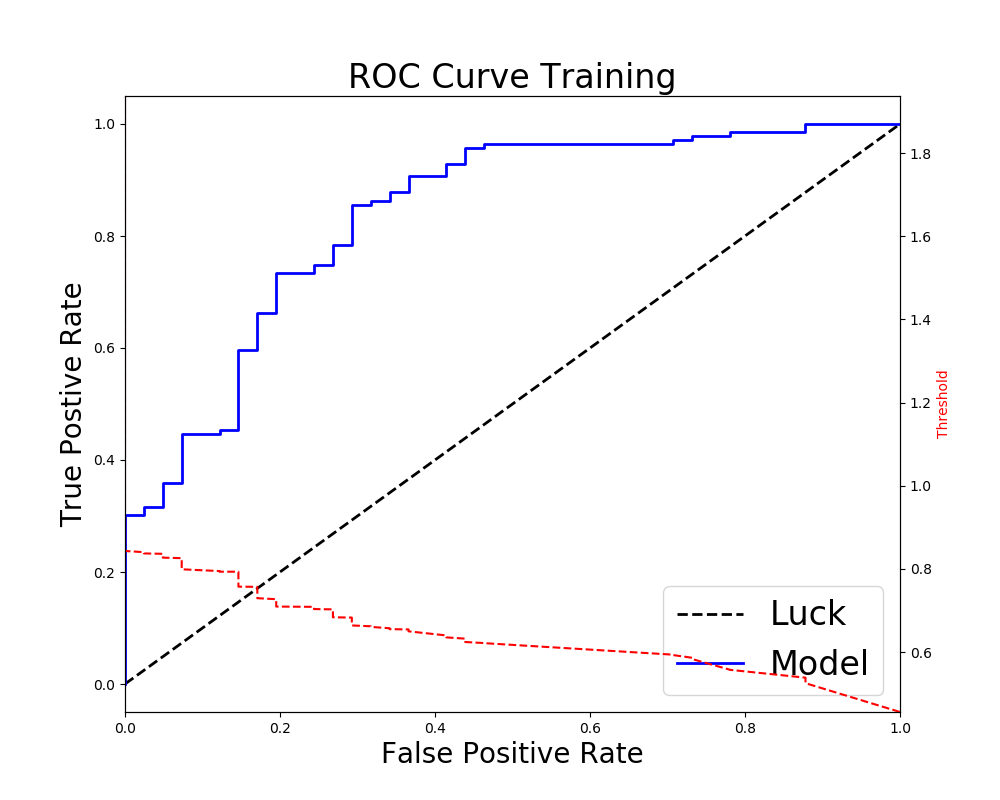
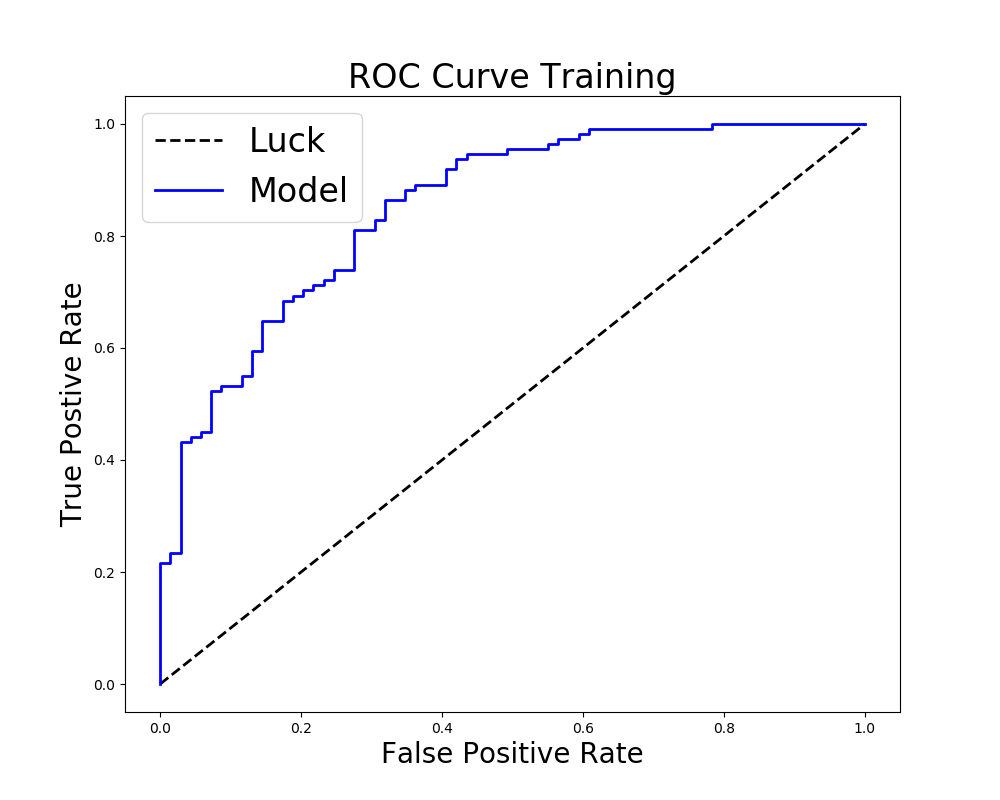
code

diff --git a/cap_thresholds.py b/cap_thresholds.py
@@ -1,5 +1,6 @@
 import pandas as pd
 import numpy as np
+import csv
 from sklearn import metrics
 from sklearn.model_selection import cross_val_predict
 from sklearn import svm, datasets
@@ -68,14 +69,16 @@ def plot_model_profits(model_profits, save_path='images/profit.png'):
     plt.savefig(save_path)
 
 def make_clean_Options_df(df):
-    df = df[['Options','ma2_mean']]
+    #df = df[['Options','ma2_mean']]
+    df = df[['Options','mean_close','ma_2']]
+
     #df = df[['Options','mean_volume']]
     return (df)
 
-def get_clean_data():
-    df = pd.read_csv('data/clean_small2.csv')
-    df = df[['Options','ma1_mean']]
-    return(df)
+# def get_clean_data():
+#     df = pd.read_csv('data/clean_small2.csv')
+#     df = df[['Options','ma1_mean']]
+#     return(df)
 
 def standard_confusion_matrix(y_true, y_pred):
     """Make confusion matrix with format:
@@ -184,6 +187,8 @@ def processcsv(filepath, cost_benefit):
     max_model, max_thresh, max_profit = find_best_threshold(model_profits)
     max_labeled_positives = max_model.predict_proba(X_test) >= max_thresh
     plotROC(y_test, max_model.predict_proba(X_test)[:,1])
+    # Add a line for just a 1
+
     proportion_positives = max_labeled_positives.mean()
     reporting_string = ('Best model:\t\t{}\n'
                         'Best threshold:\t\t{:.2f}\n'
@@ -215,12 +220,13 @@ def find_best_threshold(model_profits):
             max_threshold = thresholds[max_index]
             max_profit = profits[max_index]
     return max_model, max_threshold, max_profit
-def plotROC(y_true, y_prob_H):
-
+def plotROC(y_true, y_prob_H, filelocation = 'images/plotROC.png',title = 'ROC curve'):
+    print("in plotRoc",filelocation,title)
     # print(y_true)
     # print(y_prob_H)
     # print('Length', len(y_prob_H))
     fpr, tpr, thresholds = metrics.roc_curve(y_true, y_prob_H, pos_label=1)
+    print("****************",title, thresholds.max())
     fig = plt.figure(figsize=(10,8))
     ax = fig.add_subplot(111)
     ax.plot([0, 1], [0, 1], linestyle='--', lw=2, color='k',
@@ -228,17 +234,37 @@ def plotROC(y_true, y_prob_H):
     ax.plot(fpr, tpr, color='b', lw=2, label='Model')
     ax.set_xlabel("False Positive Rate", fontsize=20)
     ax.set_ylabel("True Postive Rate", fontsize=20)
-    ax.set_title("ROC curve", fontsize=24)
+    ax.set_title(title, fontsize=24)
     ax.legend(fontsize=24);
-    plt.savefig('images/plotROC.png')
+
+    # ax2 = plt.gca().twinx()
+    # ax2.plot(fpr, thresholds, markeredgecolor='r',linestyle='dashed', color='r')
+    # ax2.set_ylabel('Threshold',color='r')
+    # ax2.set_ylim([thresholds[-1],thresholds[0]])
+    # ax2.set_xlim([fpr[0],fpr[-1]])
+    plt.savefig(filelocation)
+def oversample0(X_train, y_train):
+    # Quickly Oversample data with more RSU
+
+    for Xt,yt in zip(X_train, y_train):
+        if(yt == 0):
+            X_train = np.append(X_train,[Xt], axis=0)
+            print('After',X_train)
+            y_train = np.append(y_train,yt)
+    return(X_train, y_train)
+
 def crossvalidation(filepath):
     raw_df = pd.read_csv(filepath)
     Options_df = make_clean_Options_df(raw_df)
+    print (Options_df.head())
     y = Options_df.pop('Options').values
     X = Options_df.values
     X_train, X_test, y_train, y_test = train_test_split(X, y,stratify=y,test_size=0.33)
+    # After the split
+    #X_train,y_train = oversample0(X_train,y_train)
 
-    kfold = StratifiedKFold(2,shuffle=False)
+
+    kfold = StratifiedKFold(5,shuffle=False)
 
     accuracies = []
     precisions = []
@@ -246,32 +272,165 @@ def crossvalidation(filepath):
     sumofy = []
     sumofy2 = []
     F1s = []
+
     for train_index, test_index in kfold.split(X_train,y_train):
         model = LR(solver='liblinear')
         model.fit(X_train[train_index], y_train[train_index])
-        y_predict = model.predict(X_train[test_index])
+        #y_predict = model.predict(X_train[test_index])
+        y_proba = model.predict_proba(X_train[test_index])[:,1]
+        #  Above the model is using predict_proba this returns the 'probability' of a 1
+        #  the code below uses this with a differnt threshold to get the actual prediciton
+        y_predict = np.array([(lambda z: 1 if z >0.45177236 else 0)(z) for z in y_proba])
         y_true = y_train[test_index]
+        #print(y_proba)
+        #print('Predict',y_predict)
+        #print('True   ',y_true)
         accuracies.append(accuracy_score(y_true, y_predict))
         precisions.append(precision_score(y_true, y_predict))
         recalls.append(recall_score(y_true, y_predict))
         sumofy.append(len(y_predict)-y_predict.sum())
         sumofy2.append(len(y_true)-y_true.sum())
         F1s.append(f1_score(y_true, y_predict))
-    print ("accuracy:", np.average(accuracies))
-    print ("precision:", np.average(precisions))
-    print ("recall:", np.average(recalls))
-    print ("sumofy:", np.average(sumofy))
-    print ("sumofy2:", np.average(sumofy2))
-    print ('F1', np.average(F1s))
 
 
+        # print ("accuracy:", np.average(accuracies))
+        # print ("precision:", np.average(precisions))
+        # print ("recall:", np.average(recalls))
+        # print ("sumofyPridict:", np.average(sumofy))
+        # print ("sumofyTrue:", np.average(sumofy2))
+        # print ('F1', np.average(F1s))
+
+    y_proba = model.predict_proba(X_train)[:,1]
+    y_predict = np.array([(lambda z: 1 if z >0.6443742 else 0)(z) for z in y_proba])
+    #print(y_train, y_predict)
+    plotROC(y_train, y_proba,"images/plotROC_Training.png","ROC Curve Training")
+
+    y_proba = model.predict_proba(X_test)[:,1]
+    y_predict = np.array([(lambda z: 1 if z >0.6443742 else 0)(z) for z in y_proba])
+    print("__________________test")
+
+    #print(y_proba,y_test, y_predict)
+    print("Threashold 0.6443742")
+    plotROC(y_test, y_proba,'images/ROC_Test.png',"ROC Curve Test")
+    print ('Test accuracy_score',accuracy_score(y_test, y_predict))
+    print ('Test precision_score',precision_score(y_test, y_predict))
+    print ('Test recall_score',recall_score(y_test, y_predict))
+    print ('Test f1_score',f1_score(y_test, y_predict))
+    print('---------------------summmary')
+    print(raw_df.Options.value_counts())
+    print('train sum',sum(y_train),'train len',len(y_train))
+    zipped = set(zip(y_proba,y_test, y_predict))
+    cw = csv.writer(open("zipped.csv",'w'))
+    cw.writerow(zipped)
+    y_proba = model.predict_proba(X_train)[:,1]
+    y_predict = np.array([(lambda z: 1 if z >0.0 else 0)(z) for z in y_proba])
+    print('------All ones')
+    print(len(y_proba),len(y_train),len(y_predict))
+    #print(y_proba,y_train, y_predict)
+    # print("Threashold 0.6443742")
+    plotROC(y_train, y_proba,'images/plotAll1.png','ROC Curve All 1')
+    print ('All1 accuracy_score',accuracy_score(y_train, y_predict))
+    print ('All1 precision_score',precision_score(y_train, y_predict))
+    print ('All1 recall_score',recall_score(y_train, y_predict))
+    print ('All1 f1_score',f1_score(y_train, y_predict))
+
+
+
+
+
+
+
+
+def plot_options(filepath):
+    df = pd.read_csv(filepath)
+    X_options = df[df['Options']==1 ]
+    y_options = df[df['Options']==1 ]
+
+    X_rsu = df[df['Options']==0 ]
+    y_rsu  = df[df['Options']==0 ]
+
+    fig = plt.figure(figsize=(12,10))
+    ax = fig.add_subplot(111)
+    ax.scatter(X_rsu['ma_2'], X_rsu['future_mean_close'], color='b', label='RSU')
+    ax.scatter(X_options['ma_2'], X_options['future_mean_close'], color='r', label='Options')
+    ax.legend(shadow=True)
+    ax.set_xlabel('ma_2')
+    ax.set_ylabel('Moving Average')
+    ax.set_title('Options or RSU?')
+    plt.savefig('images/OptionOrNot.png')
+def crossvalidationThr(filepath):
+    raw_df = pd.read_csv(filepath)
+    Options_df = make_clean_Options_df(raw_df)
+    print (Options_df.head())
+    y = Options_df.pop('Options').values
+    X = Options_df.values
+    X_train, X_test, y_train, y_test = train_test_split(X, y,stratify=y,test_size=0.33)
+    # After the split
+    #X_train,y_train = oversample0(X_train,y_train)
+
+
+    kfold = StratifiedKFold(5,shuffle=False)
+
+    accuracies = []
+    precisions = []
+    recalls = []
+    sumofy = []
+    sumofy2 = []
+    F1s = []
+    thr = [0.27411032 ,0.45177236 ,0.43848543 ,0.57502369 ,0.52727048, 0.26294993,
+ 0.3734106,  0.55862627 ,0.35298962, 0.55236403, 0.86459271, 0.47550826,
+ 0.36730173, 0.69804784 ,0.42914183, 0.56947256, 0.59538206, 0.58619825,
+ 0.73952725, 0.76668073 ,0.7893238 , 0.65972535, 0.77526139, 0.43201526,
+ 0.73858921, 0.60181424 ,0.43968636, 0.75375776, 0.78417738, 0.53074894,
+ 0.75953991, 0.62555268 ,0.48809615, 0.67150554, 0.52648925]
+    bestthr = 0
+    bestF1  = 0
+    for i in thr:
+        for train_index, test_index in kfold.split(X_train,y_train):
+            model = LR(solver='liblinear')
+            model.fit(X_train[train_index], y_train[train_index])
+            #y_predict = model.predict(X_train[test_index])
+            y_proba = model.predict_proba(X_train[test_index])[:,1]
+            #  Above the model is using predict_proba this returns the 'probability' of a 1
+            #  the code below uses this with a differnt threshold to get the actual prediciton
+            y_predict = np.array([(lambda z: 1 if z >i else 0)(z) for z in y_proba])
+            y_true = y_train[test_index]
+            print(y_proba)
+            print('Predict',y_predict)
+            print('True   ',y_true)
+            accuracies.append(accuracy_score(y_true, y_predict))
+            precisions.append(precision_score(y_true, y_predict))
+            recalls.append(recall_score(y_true, y_predict))
+            sumofy.append(len(y_predict)-y_predict.sum())
+            sumofy2.append(len(y_true)-y_true.sum())
+            F1s.append(f1_score(y_true, y_predict))
+
+
+            print ("accuracy:", np.average(accuracies))
+            print ("precision:", np.average(precisions))
+            print ("recall:", np.average(recalls))
+            print ("sumofyPridict:", np.average(sumofy))
+            print ("sumofyTrue:", np.average(sumofy2))
+            print ('F1', np.average(F1s))
+            if(np.average(F1s) > bestF1):
+               bestF1 = np.average(F1s)
+               bestthr = i
+            accuracies = []
+            precisions = []
+            recalls = []
+            sumofy = []
+            sumofy2 = []
+            F1s = []
+    print('BestF1 and threashold',bestF1,bestthr)
 if __name__ == '__main__':
     #test_cost_benefit()
     #df = get_clean_data()
-    #np.random.seed(42)
+    np.random.seed(42)
     plt.figure(figsize=(16, 8))
 
     costben = np.array([[1,-5],[-5,1]])
-    processcsv('data/clean_small2.csv', costben)
-    plt.savefig('images/profitCurve1.png')
+    #processcsv('data/clean_small2.csv', costben)
+    plot_options('data/clean_small2.csv')
+    #plt.savefig('images/profitCurve1.png')
     crossvalidation('data/clean_small2.csv')
+    #crossvalidationThr('data/clean_small2.csv')

diff --git a/Ocase_second.py b/Ocase_second.py
@@ -267,7 +267,7 @@ def get_clean_data(file_name):
     df1 = df1[df1['future_mean_close']>0 ]
     df1 = df1[df1['ma_2']>0 ]
     df1['fv_options'] = (df1['future_mean_close']-df1['mean_close'])*1000
-    df1['fv_rsu'] = df1['mean_close']*250
+    df1['fv_rsu'] = df1['future_mean_close']*250
     df1['diff'] = df1['fv_options']- df1['fv_rsu']
     df1['ma2_mean'] = df1['ma_2']- df1['mean_close']
     df1['ma1_mean'] = df1['ma_1']- df1['mean_close']
@@ -287,7 +287,12 @@ def plotData(df):
     # print(df2.head())
     pd.plotting.scatter_matrix(df,figsize=(10, 8))
     plt.savefig("images/scatter_matrix.png")
+    df3=df[['mean_close','future_mean_close','ma_2','diff','ma2_mean']]
+    pd.plotting.scatter_matrix(df3,figsize=(10, 8))
 
+    plt.savefig("images/scatter_matrix_only_means3.png")
+    sns.pairplot(df3)
+    plt.savefig('images/pairplot3.png')
 
 
     #temp.to_csv('nulls.csv', sep='\t', encoding='utf-8')
